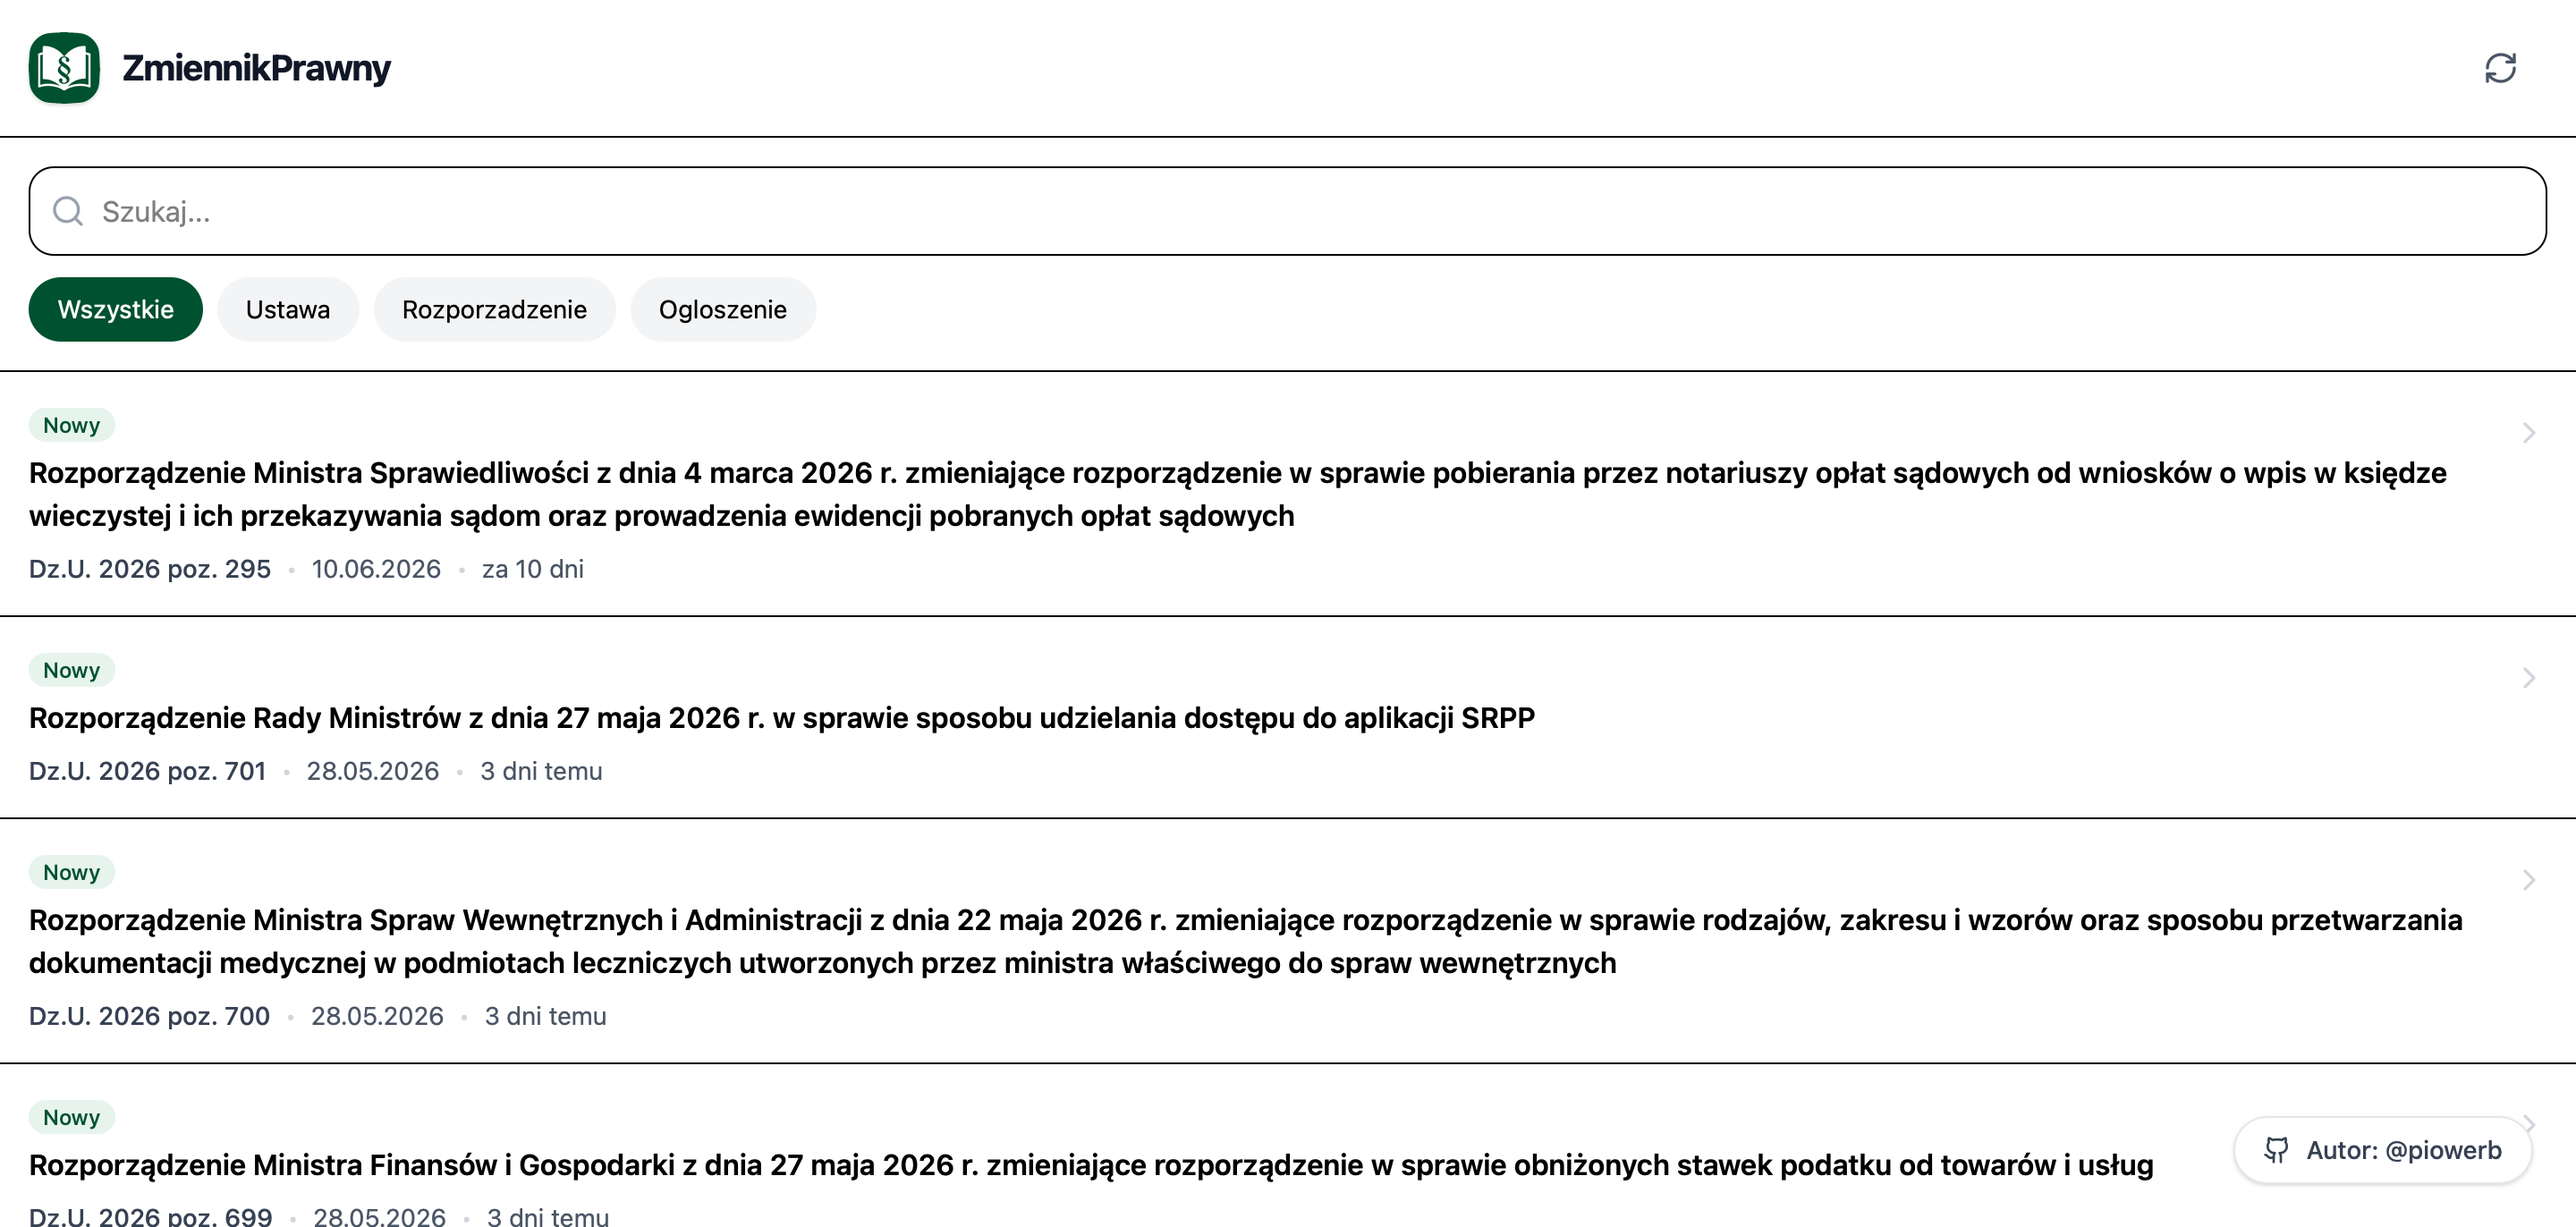
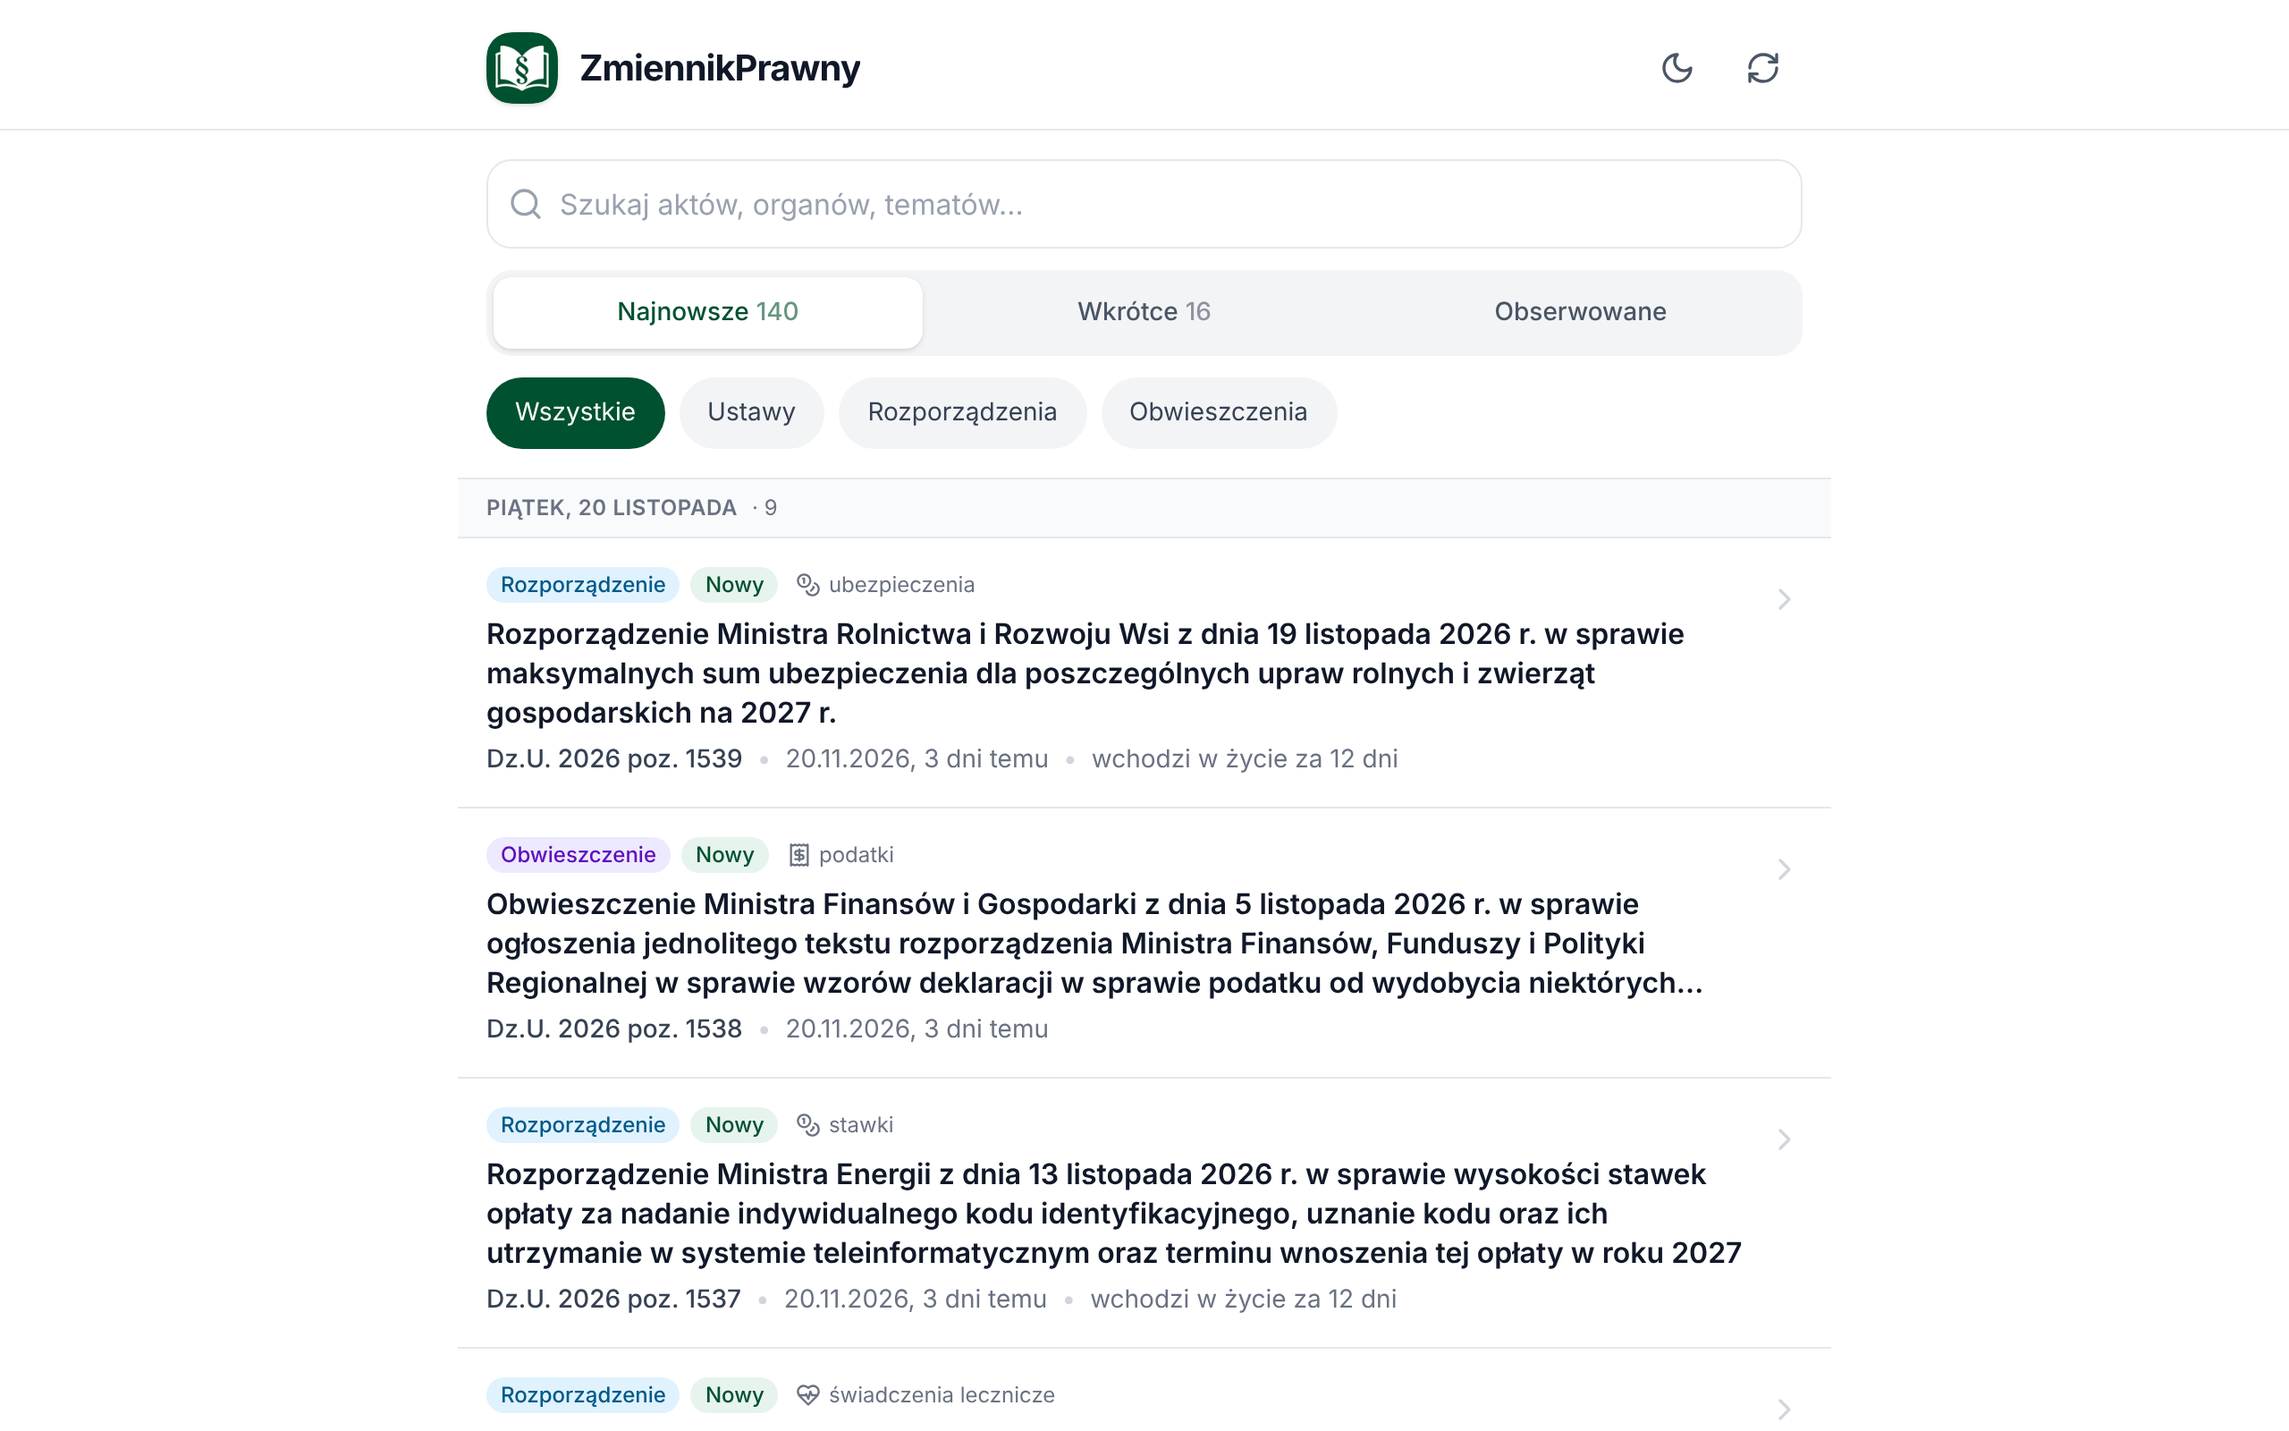
Add files via upload

diff --git a/README.md b/README.md
@@ -22,7 +22,15 @@
     <a href="https://zmiennikprawny.pl"><img alt="Strona projektu" src="https://img.shields.io/badge/zmiennikprawny.pl-ffffff?style=for-the-badge&labelColor=ffffff&color=e6f4ed" /></a>
   </p>
 
-  <img src="src/imports/screenshot.png" width="640" alt="Podgląd aplikacji ZmiennikPrawny" />
+  <img src="src/imports/screenshot.png" width="720" alt="ZmiennikPrawny na komputerze – lista najnowszych aktów" />
+
+  <br /><br />
+
+  <img src="docs/screenshot-mobile-list.png" width="230" alt="ZmiennikPrawny na telefonie – lista aktów" />
+  &nbsp;
+  <img src="docs/screenshot-mobile-detail.png" width="230" alt="ZmiennikPrawny na telefonie – szczegóły aktu" />
+  &nbsp;
+  <img src="docs/screenshot-mobile-dark.png" width="230" alt="ZmiennikPrawny na telefonie – tryb ciemny" />
 </div>
 
 ---
@@ -45,8 +53,7 @@
 | wrzesień 2025 | Alfa | Początek prac, wewnętrzne testy i fundamenty aplikacji |
 | listopad 2025 | Beta | Pierwsza publiczna wersja, pierwsze opinie użytkowników |
 | maj 2026 | v1.0 | Pierwsza wersja stabilna: dopracowany interfejs i UX |
-| listopad 2026 | v1.1 | Naprawa wyszukiwarki, data wejścia w życie, organ wydający i słowa kluczowe z ISAP, pełne PWA, ok. 4× mniej pobieranych danych |
-| listopad 2026 | v1.2 | Zakładki „Wkrótce” i „Obserwowane”, grupowanie po dniach, linki do aktów, klikalne tematy i organy, ikonki tematów, tryb ciemny |
+| listopad 2026 | v1.2 | Duża aktualizacja: zakładki „Wkrótce” i „Obserwowane”, grupowanie po dniach, linki do aktów, klikalne tematy i organy, ikonki tematów, tryb ciemny, data wejścia w życie i organ wydający z ISAP, naprawa wyszukiwarki, pełne PWA, ok. 4× mniej pobieranych danych |
 
 ## Funkcje
 
@@ -115,6 +122,7 @@ src/
 ├── imports/                    # logo i zrzut ekranu
 └── styles/                     # Tailwind i motyw
 public/                         # manifest PWA i ikony
+docs/                           # zrzuty ekranu do README
 ```
 
 ## Źródło danych (API Sejmu RP)
@@ -122,7 +130,7 @@ public/                         # manifest PWA i ikony
 Aplikacja korzysta z publicznego API Sejmu RP w standardzie ELI (European Legislation Identifier).
 
 - Zapytanie używane w aplikacji: `https://api.sejm.gov.pl/eli/acts/search?publisher=DU&pubDateFrom={data}` – akty z ostatnich 30 dni, razem z datą wejścia w życie, organem wydającym i słowami kluczowymi
-- PDF aktu: `https://isap.sejm.gov.pl/isap.nsf/download.xsp/WDU{rok}{pozycja}/O/D{rok}{pozycja}.pdf`
+- PDF aktu pochodzi z ISAP, np. `https://isap.sejm.gov.pl/isap.nsf/download.xsp/WDU20260001539/O/D20261539.pdf`
 - Dokumentacja: [api.sejm.gov.pl/eli_pl.html](https://api.sejm.gov.pl/eli_pl.html)
 - Portal ISAP: [isap.sejm.gov.pl](https://isap.sejm.gov.pl/)
 
@@ -164,5 +172,5 @@ Prawa zastrzeżone dotyczą mojego kodu i projektu aplikacji. Projekt korzysta t
 <p align="center">
   Autor: <a href="https://github.com/piowerb">@piowerb</a> · <b>ZmiennikPrawny – bądź na bieżąco z prawem</b> ⚖
   <br />
-  <a href="#zmiennikprawny">↑ Wróć na górę</a>
+  <a href="#spis-treści">↑ Wróć na górę</a>
 </p>
